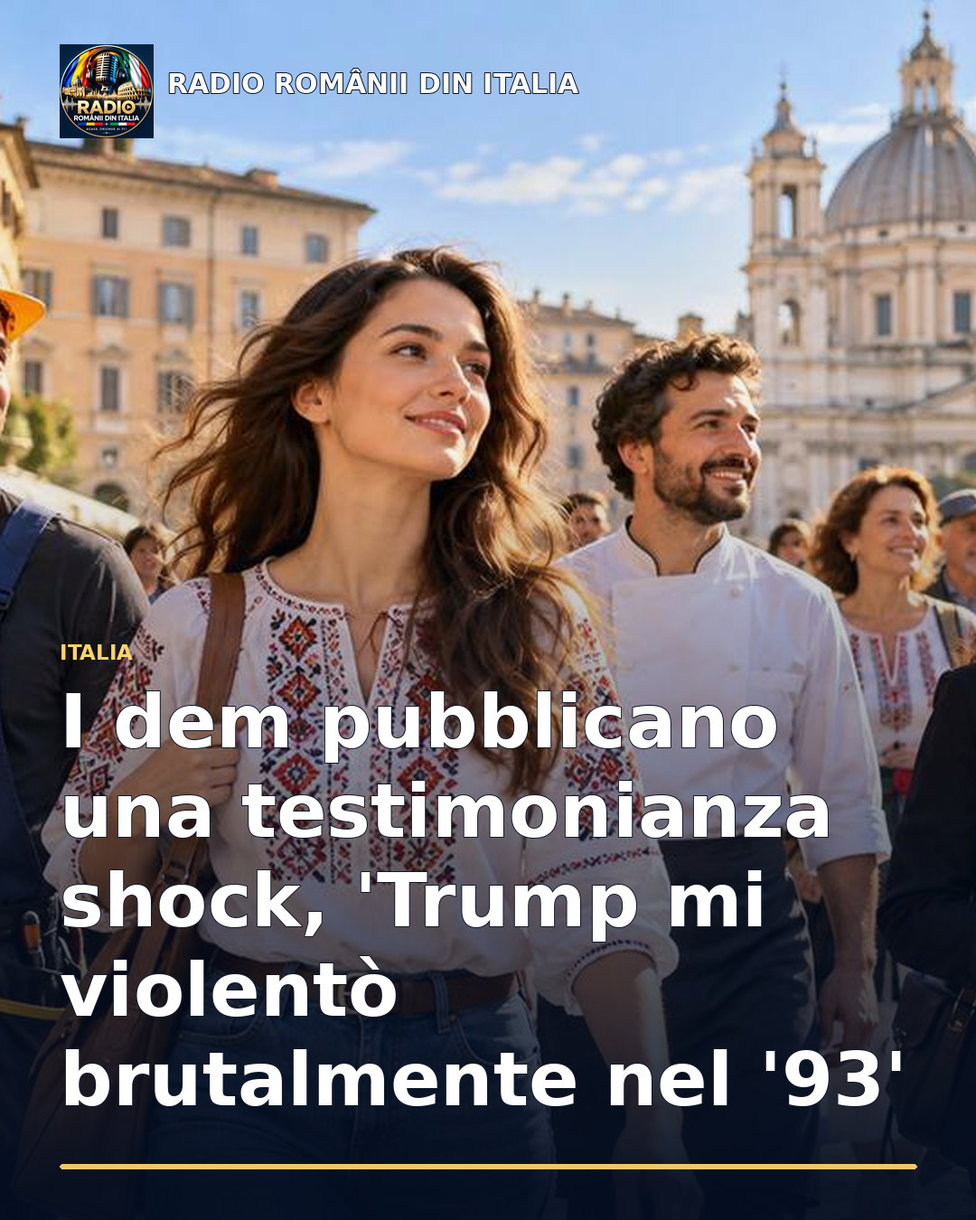
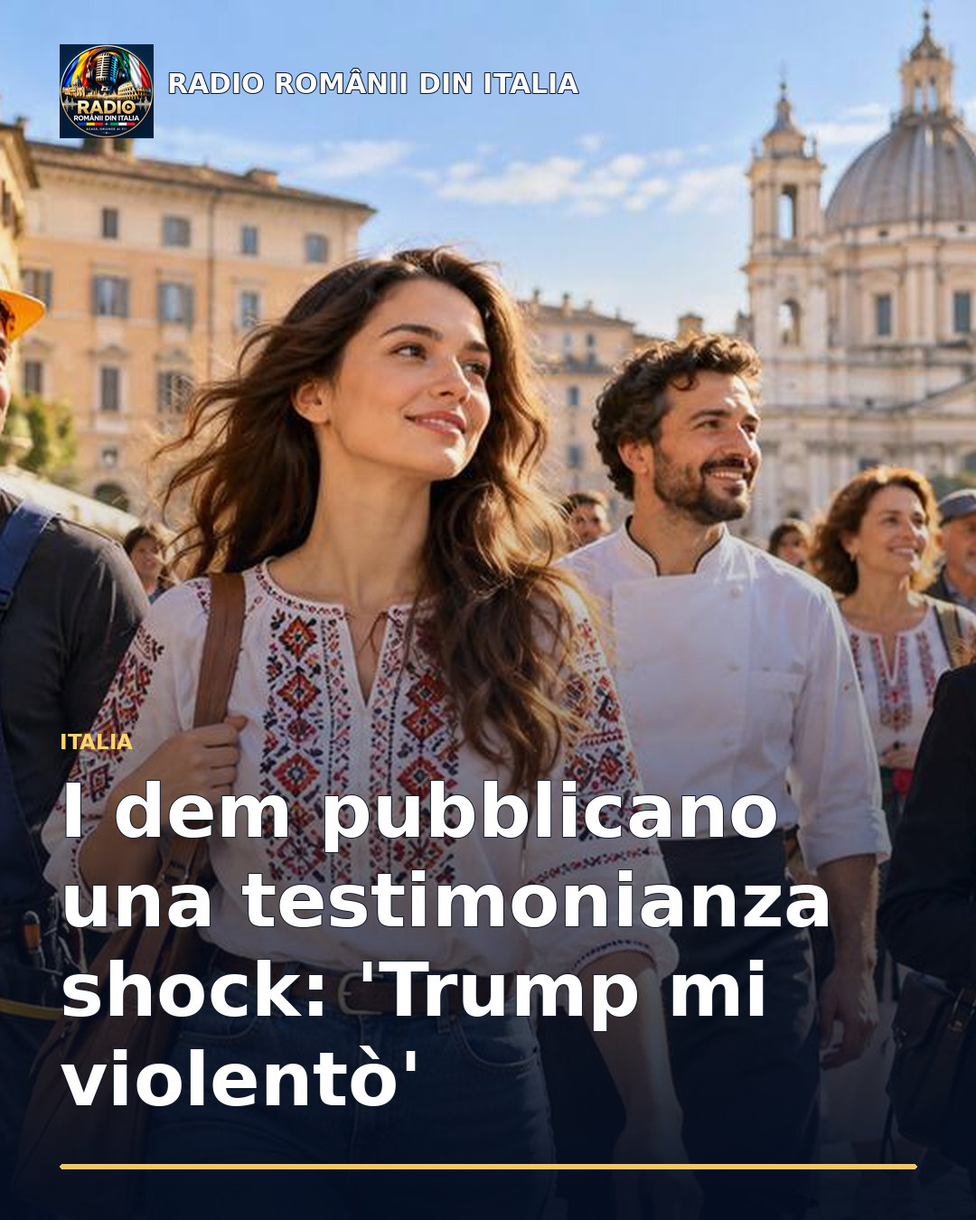
Aggiorna anteprime social RDI

Changed region(s): [[0.0611, 0.5289, 0.9167, 0.9333]]

diff --git a/articole/7bf0a75f-social.html b/articole/7bf0a75f-social.html
@@ -1,1 +1,1 @@
-<!doctype html><html lang="ro"><head><meta charset="utf-8"><meta name="viewport" content="width=device-width,initial-scale=1"><title>I dem pubblicano una testimonianza shock, &#x27;Trump mi violentò brutalmente nel &#x27;93&#x27; | RDI</title><meta name="description" content="In una camera del Plaza Hotel di Atlantic City dopo aver passato tempo con Epstein"><link rel="canonical" href="https://radioromanii.duckdns.org/articole/7bf0a75f-social.html"><meta property="og:type" content="article"><meta property="og:site_name" content="RDI - Radio Romanii din Italia"><meta property="og:title" content="I dem pubblicano una testimonianza shock, &#x27;Trump mi violentò brutalmente nel &#x27;93&#x27;"><meta property="og:description" content="In una camera del Plaza Hotel di Atlantic City dopo aver passato tempo con Epstein"><meta property="og:url" content="https://radioromanii.duckdns.org/articole/7bf0a75f-social.html"><meta property="og:image" content="https://radioromanii.duckdns.org/share-images/7bf0a75f-social.jpg?v=d81c2bfaf54a"><meta property="og:image:width" content="1200"><meta property="og:image:height" content="630"><meta name="twitter:card" content="summary_large_image"><meta name="twitter:title" content="I dem pubblicano una testimonianza shock, &#x27;Trump mi violentò brutalmente nel &#x27;93&#x27;"><meta name="twitter:description" content="In una camera del Plaza Hotel di Atlantic City dopo aver passato tempo con Epstein"><meta name="twitter:image" content="https://radioromanii.duckdns.org/share-images/7bf0a75f-social.jpg?v=d81c2bfaf54a"><style>body{font:18px system-ui;background:#101827;color:white;max-width:760px;margin:35px auto;padding:15px}img{width:100%;border-radius:16px}a{color:#f2c66c}</style></head><body><img src="https://radioromanii.duckdns.org/share-images/7bf0a75f-social.jpg?v=d81c2bfaf54a" alt="RDI"><h1>I dem pubblicano una testimonianza shock, &#x27;Trump mi violentò brutalmente nel &#x27;93&#x27;</h1><section id="article-summary"><p>In una camera del Plaza Hotel di Atlantic City dopo aver passato tempo con Epstein</p></section><p><a href="https://radioromanii.duckdns.org/?articolo=7bf0a75f">Leggi su RDI / Citește pe RDI →</a></p></body></html>
+<!doctype html><html lang="ro"><head><meta charset="utf-8"><meta name="viewport" content="width=device-width,initial-scale=1"><title>I dem pubblicano una testimonianza shock: &#x27;Trump mi violentò&#x27; | RDI</title><meta name="description" content="L&#x27;accusa di Beatrice Keul una nuova tegola sul tycoon, dopo Bolsonaro trema anche per Bibi"><link rel="canonical" href="https://radioromanii.duckdns.org/articole/7bf0a75f-social.html"><meta property="og:type" content="article"><meta property="og:site_name" content="RDI - Radio Romanii din Italia"><meta property="og:title" content="I dem pubblicano una testimonianza shock: &#x27;Trump mi violentò&#x27;"><meta property="og:description" content="L&#x27;accusa di Beatrice Keul una nuova tegola sul tycoon, dopo Bolsonaro trema anche per Bibi"><meta property="og:url" content="https://radioromanii.duckdns.org/articole/7bf0a75f-social.html"><meta property="og:image" content="https://radioromanii.duckdns.org/share-images/7bf0a75f-social.jpg?v=2dba4b8a94f5"><meta property="og:image:width" content="1200"><meta property="og:image:height" content="630"><meta name="twitter:card" content="summary_large_image"><meta name="twitter:title" content="I dem pubblicano una testimonianza shock: &#x27;Trump mi violentò&#x27;"><meta name="twitter:description" content="L&#x27;accusa di Beatrice Keul una nuova tegola sul tycoon, dopo Bolsonaro trema anche per Bibi"><meta name="twitter:image" content="https://radioromanii.duckdns.org/share-images/7bf0a75f-social.jpg?v=2dba4b8a94f5"><style>body{font:18px system-ui;background:#101827;color:white;max-width:760px;margin:35px auto;padding:15px}img{width:100%;border-radius:16px}a{color:#f2c66c}</style></head><body><img src="https://radioromanii.duckdns.org/share-images/7bf0a75f-social.jpg?v=2dba4b8a94f5" alt="RDI"><h1>I dem pubblicano una testimonianza shock: &#x27;Trump mi violentò&#x27;</h1><section id="article-summary"><p>L&#x27;accusa di Beatrice Keul una nuova tegola sul tycoon, dopo Bolsonaro trema anche per Bibi</p></section><p><a href="https://radioromanii.duckdns.org/?articolo=7bf0a75f">Leggi su RDI / Citește pe RDI →</a></p></body></html>

diff --git a/articole/7bf0a75f.html b/articole/7bf0a75f.html
@@ -1,1 +1,1 @@
-<!doctype html><html lang="ro"><head><meta charset="utf-8"><meta name="viewport" content="width=device-width,initial-scale=1"><title>I dem pubblicano una testimonianza shock, &#x27;Trump mi violentò brutalmente nel &#x27;93&#x27; | RDI</title><meta name="description" content="In una camera del Plaza Hotel di Atlantic City dopo aver passato tempo con Epstein"><link rel="canonical" href="https://radioromanii.duckdns.org/articole/7bf0a75f-social.html"><meta property="og:type" content="article"><meta property="og:site_name" content="RDI - Radio Romanii din Italia"><meta property="og:title" content="I dem pubblicano una testimonianza shock, &#x27;Trump mi violentò brutalmente nel &#x27;93&#x27;"><meta property="og:description" content="In una camera del Plaza Hotel di Atlantic City dopo aver passato tempo con Epstein"><meta property="og:url" content="https://radioromanii.duckdns.org/articole/7bf0a75f-social.html"><meta property="og:image" content="https://radioromanii.duckdns.org/share-images/7bf0a75f-social.jpg?v=d81c2bfaf54a"><meta property="og:image:width" content="1200"><meta property="og:image:height" content="630"><meta name="twitter:card" content="summary_large_image"><meta name="twitter:title" content="I dem pubblicano una testimonianza shock, &#x27;Trump mi violentò brutalmente nel &#x27;93&#x27;"><meta name="twitter:description" content="In una camera del Plaza Hotel di Atlantic City dopo aver passato tempo con Epstein"><meta name="twitter:image" content="https://radioromanii.duckdns.org/share-images/7bf0a75f-social.jpg?v=d81c2bfaf54a"><style>body{font:18px system-ui;background:#101827;color:white;max-width:760px;margin:35px auto;padding:15px}img{width:100%;border-radius:16px}a{color:#f2c66c}</style></head><body><img src="https://radioromanii.duckdns.org/share-images/7bf0a75f-social.jpg?v=d81c2bfaf54a" alt="RDI"><h1>I dem pubblicano una testimonianza shock, &#x27;Trump mi violentò brutalmente nel &#x27;93&#x27;</h1><section id="article-summary"><p>In una camera del Plaza Hotel di Atlantic City dopo aver passato tempo con Epstein</p></section><p><a href="https://radioromanii.duckdns.org/?articolo=7bf0a75f">Leggi su RDI / Citește pe RDI →</a></p></body></html>
+<!doctype html><html lang="ro"><head><meta charset="utf-8"><meta name="viewport" content="width=device-width,initial-scale=1"><title>I dem pubblicano una testimonianza shock: &#x27;Trump mi violentò&#x27; | RDI</title><meta name="description" content="L&#x27;accusa di Beatrice Keul una nuova tegola sul tycoon, dopo Bolsonaro trema anche per Bibi"><link rel="canonical" href="https://radioromanii.duckdns.org/articole/7bf0a75f-social.html"><meta property="og:type" content="article"><meta property="og:site_name" content="RDI - Radio Romanii din Italia"><meta property="og:title" content="I dem pubblicano una testimonianza shock: &#x27;Trump mi violentò&#x27;"><meta property="og:description" content="L&#x27;accusa di Beatrice Keul una nuova tegola sul tycoon, dopo Bolsonaro trema anche per Bibi"><meta property="og:url" content="https://radioromanii.duckdns.org/articole/7bf0a75f-social.html"><meta property="og:image" content="https://radioromanii.duckdns.org/share-images/7bf0a75f-social.jpg?v=2dba4b8a94f5"><meta property="og:image:width" content="1200"><meta property="og:image:height" content="630"><meta name="twitter:card" content="summary_large_image"><meta name="twitter:title" content="I dem pubblicano una testimonianza shock: &#x27;Trump mi violentò&#x27;"><meta name="twitter:description" content="L&#x27;accusa di Beatrice Keul una nuova tegola sul tycoon, dopo Bolsonaro trema anche per Bibi"><meta name="twitter:image" content="https://radioromanii.duckdns.org/share-images/7bf0a75f-social.jpg?v=2dba4b8a94f5"><style>body{font:18px system-ui;background:#101827;color:white;max-width:760px;margin:35px auto;padding:15px}img{width:100%;border-radius:16px}a{color:#f2c66c}</style></head><body><img src="https://radioromanii.duckdns.org/share-images/7bf0a75f-social.jpg?v=2dba4b8a94f5" alt="RDI"><h1>I dem pubblicano una testimonianza shock: &#x27;Trump mi violentò&#x27;</h1><section id="article-summary"><p>L&#x27;accusa di Beatrice Keul una nuova tegola sul tycoon, dopo Bolsonaro trema anche per Bibi</p></section><p><a href="https://radioromanii.duckdns.org/?articolo=7bf0a75f">Leggi su RDI / Citește pe RDI →</a></p></body></html>

diff --git a/articole/d0a415d0-social.html b/articole/d0a415d0-social.html
@@ -1,0 +1,1 @@
+<!doctype html><html lang="ro"><head><meta charset="utf-8"><meta name="viewport" content="width=device-width,initial-scale=1"><title>La noapte începe evacuarea orașului Oleșkî. Pe cei care aleg să rămână îi așteaptă iadul. „Ar putea fi șters de pe fața pământului” | RDI</title><meta name="description" content="Orașul Oleșkî, ocupat de ruși, ar putea suferi distrugeri și mai mari după plecarea civililor, în cadrul unui recent acord de încetare a focului negociat de SUA, a declarat voluntara de evac"><link rel="canonical" href="https://radioromanii.duckdns.org/articole/d0a415d0-social.html"><meta property="og:type" content="article"><meta property="og:site_name" content="RDI - Radio Romanii din Italia"><meta property="og:title" content="La noapte începe evacuarea orașului Oleșkî. Pe cei care aleg să rămână îi așteaptă iadul. „Ar putea fi șters de pe fața pământului”"><meta property="og:description" content="Orașul Oleșkî, ocupat de ruși, ar putea suferi distrugeri și mai mari după plecarea civililor, în cadrul unui recent acord de încetare a focului negociat de SUA, a declarat voluntara de evac"><meta property="og:url" content="https://radioromanii.duckdns.org/articole/d0a415d0-social.html"><meta property="og:image" content="https://radioromanii.duckdns.org/share-images/d0a415d0-social.jpg?v=7cc2ce25390e"><meta property="og:image:width" content="1200"><meta property="og:image:height" content="630"><meta name="twitter:card" content="summary_large_image"><meta name="twitter:title" content="La noapte începe evacuarea orașului Oleșkî. Pe cei care aleg să rămână îi așteaptă iadul. „Ar putea fi șters de pe fața pământului”"><meta name="twitter:description" content="Orașul Oleșkî, ocupat de ruși, ar putea suferi distrugeri și mai mari după plecarea civililor, în cadrul unui recent acord de încetare a focului negociat de SUA, a declarat voluntara de evac"><meta name="twitter:image" content="https://radioromanii.duckdns.org/share-images/d0a415d0-social.jpg?v=7cc2ce25390e"><style>body{font:18px system-ui;background:#101827;color:white;max-width:760px;margin:35px auto;padding:15px}img{width:100%;border-radius:16px}a{color:#f2c66c}</style></head><body><img src="https://radioromanii.duckdns.org/share-images/d0a415d0-social.jpg?v=7cc2ce25390e" alt="RDI"><h1>La noapte începe evacuarea orașului Oleșkî. Pe cei care aleg să rămână îi așteaptă iadul. „Ar putea fi șters de pe fața pământului”</h1><section id="article-summary"><p>Orașul Oleșkî, ocupat de ruși, ar putea suferi distrugeri și mai mari după plecarea civililor, în cadrul unui recent acord de încetare a focului negociat de SUA, a declarat voluntara de evacuare Kseniia Arkhipova pentru Kyiv Independent.</p></section><p><a href="https://radioromanii.duckdns.org/?articolo=d0a415d0">Leggi su RDI / Citește pe RDI →</a></p></body></html>

diff --git a/articole/d0a415d0.html b/articole/d0a415d0.html
@@ -1,0 +1,1 @@
+<!doctype html><html lang="ro"><head><meta charset="utf-8"><meta name="viewport" content="width=device-width,initial-scale=1"><title>La noapte începe evacuarea orașului Oleșkî. Pe cei care aleg să rămână îi așteaptă iadul. „Ar putea fi șters de pe fața pământului” | RDI</title><meta name="description" content="Orașul Oleșkî, ocupat de ruși, ar putea suferi distrugeri și mai mari după plecarea civililor, în cadrul unui recent acord de încetare a focului negociat de SUA, a declarat voluntara de evac"><link rel="canonical" href="https://radioromanii.duckdns.org/articole/d0a415d0-social.html"><meta property="og:type" content="article"><meta property="og:site_name" content="RDI - Radio Romanii din Italia"><meta property="og:title" content="La noapte începe evacuarea orașului Oleșkî. Pe cei care aleg să rămână îi așteaptă iadul. „Ar putea fi șters de pe fața pământului”"><meta property="og:description" content="Orașul Oleșkî, ocupat de ruși, ar putea suferi distrugeri și mai mari după plecarea civililor, în cadrul unui recent acord de încetare a focului negociat de SUA, a declarat voluntara de evac"><meta property="og:url" content="https://radioromanii.duckdns.org/articole/d0a415d0-social.html"><meta property="og:image" content="https://radioromanii.duckdns.org/share-images/d0a415d0-social.jpg?v=7cc2ce25390e"><meta property="og:image:width" content="1200"><meta property="og:image:height" content="630"><meta name="twitter:card" content="summary_large_image"><meta name="twitter:title" content="La noapte începe evacuarea orașului Oleșkî. Pe cei care aleg să rămână îi așteaptă iadul. „Ar putea fi șters de pe fața pământului”"><meta name="twitter:description" content="Orașul Oleșkî, ocupat de ruși, ar putea suferi distrugeri și mai mari după plecarea civililor, în cadrul unui recent acord de încetare a focului negociat de SUA, a declarat voluntara de evac"><meta name="twitter:image" content="https://radioromanii.duckdns.org/share-images/d0a415d0-social.jpg?v=7cc2ce25390e"><style>body{font:18px system-ui;background:#101827;color:white;max-width:760px;margin:35px auto;padding:15px}img{width:100%;border-radius:16px}a{color:#f2c66c}</style></head><body><img src="https://radioromanii.duckdns.org/share-images/d0a415d0-social.jpg?v=7cc2ce25390e" alt="RDI"><h1>La noapte începe evacuarea orașului Oleșkî. Pe cei care aleg să rămână îi așteaptă iadul. „Ar putea fi șters de pe fața pământului”</h1><section id="article-summary"><p>Orașul Oleșkî, ocupat de ruși, ar putea suferi distrugeri și mai mari după plecarea civililor, în cadrul unui recent acord de încetare a focului negociat de SUA, a declarat voluntara de evacuare Kseniia Arkhipova pentru Kyiv Independent.</p></section><p><a href="https://radioromanii.duckdns.org/?articolo=d0a415d0">Leggi su RDI / Citește pe RDI →</a></p></body></html>

diff --git a/articole/ca4705-social.html b/articole/ca4705-social.html
@@ -1,0 +1,1 @@
+<!doctype html><html lang="ro"><head><meta charset="utf-8"><meta name="viewport" content="width=device-width,initial-scale=1"><title>Nicușor Dan felicită Lista Studenților pentru victoria din Serbia: „România este pregătită să colaboreze cu noul guvern” - Realitatea.NET | RDI</title><meta name="description" content="Nicușor Dan felicită Lista Studenților pentru victoria din Serbia: „România este pregătită să colaboreze cu noul guvern” - Realitatea.NET"><link rel="canonical" href="https://radioromanii.duckdns.org/articole/ca4705-social.html"><meta property="og:type" content="article"><meta property="og:site_name" content="RDI - Radio Romanii din Italia"><meta property="og:title" content="Nicușor Dan felicită Lista Studenților pentru victoria din Serbia: „România este pregătită să colaboreze cu noul guvern” - Realitatea.NET"><meta property="og:description" content="Nicușor Dan felicită Lista Studenților pentru victoria din Serbia: „România este pregătită să colaboreze cu noul guvern” - Realitatea.NET"><meta property="og:url" content="https://radioromanii.duckdns.org/articole/ca4705-social.html"><meta property="og:image" content="https://radioromanii.duckdns.org/share-images/ca4705-social.jpg?v=7273ff17fc1a"><meta property="og:image:width" content="1200"><meta property="og:image:height" content="630"><meta name="twitter:card" content="summary_large_image"><meta name="twitter:title" content="Nicușor Dan felicită Lista Studenților pentru victoria din Serbia: „România este pregătită să colaboreze cu noul guvern” - Realitatea.NET"><meta name="twitter:description" content="Nicușor Dan felicită Lista Studenților pentru victoria din Serbia: „România este pregătită să colaboreze cu noul guvern” - Realitatea.NET"><meta name="twitter:image" content="https://radioromanii.duckdns.org/share-images/ca4705-social.jpg?v=7273ff17fc1a"><style>body{font:18px system-ui;background:#101827;color:white;max-width:760px;margin:35px auto;padding:15px}img{width:100%;border-radius:16px}a{color:#f2c66c}</style></head><body><img src="https://radioromanii.duckdns.org/share-images/ca4705-social.jpg?v=7273ff17fc1a" alt="RDI"><h1>Nicușor Dan felicită Lista Studenților pentru victoria din Serbia: „România este pregătită să colaboreze cu noul guvern” - Realitatea.NET</h1><section id="article-summary"><p>Nicușor Dan felicită Lista Studenților pentru victoria din Serbia: „România este pregătită să colaboreze cu noul guvern” - Realitatea.NET</p></section><p><a href="https://radioromanii.duckdns.org/?articolo=ca4705">Leggi su RDI / Citește pe RDI →</a></p></body></html>

diff --git a/articole/ca4705.html b/articole/ca4705.html
@@ -1,0 +1,1 @@
+<!doctype html><html lang="ro"><head><meta charset="utf-8"><meta name="viewport" content="width=device-width,initial-scale=1"><title>Nicușor Dan felicită Lista Studenților pentru victoria din Serbia: „România este pregătită să colaboreze cu noul guvern” - Realitatea.NET | RDI</title><meta name="description" content="Nicușor Dan felicită Lista Studenților pentru victoria din Serbia: „România este pregătită să colaboreze cu noul guvern” - Realitatea.NET"><link rel="canonical" href="https://radioromanii.duckdns.org/articole/ca4705-social.html"><meta property="og:type" content="article"><meta property="og:site_name" content="RDI - Radio Romanii din Italia"><meta property="og:title" content="Nicușor Dan felicită Lista Studenților pentru victoria din Serbia: „România este pregătită să colaboreze cu noul guvern” - Realitatea.NET"><meta property="og:description" content="Nicușor Dan felicită Lista Studenților pentru victoria din Serbia: „România este pregătită să colaboreze cu noul guvern” - Realitatea.NET"><meta property="og:url" content="https://radioromanii.duckdns.org/articole/ca4705-social.html"><meta property="og:image" content="https://radioromanii.duckdns.org/share-images/ca4705-social.jpg?v=7273ff17fc1a"><meta property="og:image:width" content="1200"><meta property="og:image:height" content="630"><meta name="twitter:card" content="summary_large_image"><meta name="twitter:title" content="Nicușor Dan felicită Lista Studenților pentru victoria din Serbia: „România este pregătită să colaboreze cu noul guvern” - Realitatea.NET"><meta name="twitter:description" content="Nicușor Dan felicită Lista Studenților pentru victoria din Serbia: „România este pregătită să colaboreze cu noul guvern” - Realitatea.NET"><meta name="twitter:image" content="https://radioromanii.duckdns.org/share-images/ca4705-social.jpg?v=7273ff17fc1a"><style>body{font:18px system-ui;background:#101827;color:white;max-width:760px;margin:35px auto;padding:15px}img{width:100%;border-radius:16px}a{color:#f2c66c}</style></head><body><img src="https://radioromanii.duckdns.org/share-images/ca4705-social.jpg?v=7273ff17fc1a" alt="RDI"><h1>Nicușor Dan felicită Lista Studenților pentru victoria din Serbia: „România este pregătită să colaboreze cu noul guvern” - Realitatea.NET</h1><section id="article-summary"><p>Nicușor Dan felicită Lista Studenților pentru victoria din Serbia: „România este pregătită să colaboreze cu noul guvern” - Realitatea.NET</p></section><p><a href="https://radioromanii.duckdns.org/?articolo=ca4705">Leggi su RDI / Citește pe RDI →</a></p></body></html>

diff --git a/articole/324518a2-social.html b/articole/324518a2-social.html
@@ -1,0 +1,1 @@
+<!doctype html><html lang="ro"><head><meta charset="utf-8"><meta name="viewport" content="width=device-width,initial-scale=1"><title>Actorul american Walter Koenig, cunoscut din seria iniţială „Star Trek”, a murit la 90 de ani | RDI</title><meta name="description" content="Actorul american Walter Koenig, cunoscut din seria iniţială &quot;Star Trek&quot;, a murit la 90 de ani"><link rel="canonical" href="https://radioromanii.duckdns.org/articole/324518a2-social.html"><meta property="og:type" content="article"><meta property="og:site_name" content="RDI - Radio Romanii din Italia"><meta property="og:title" content="Actorul american Walter Koenig, cunoscut din seria iniţială „Star Trek”, a murit la 90 de ani"><meta property="og:description" content="Actorul american Walter Koenig, cunoscut din seria iniţială &quot;Star Trek&quot;, a murit la 90 de ani"><meta property="og:url" content="https://radioromanii.duckdns.org/articole/324518a2-social.html"><meta property="og:image" content="https://radioromanii.duckdns.org/share-images/324518a2-social.jpg?v=6b18a74af030"><meta property="og:image:width" content="1200"><meta property="og:image:height" content="630"><meta name="twitter:card" content="summary_large_image"><meta name="twitter:title" content="Actorul american Walter Koenig, cunoscut din seria iniţială „Star Trek”, a murit la 90 de ani"><meta name="twitter:description" content="Actorul american Walter Koenig, cunoscut din seria iniţială &quot;Star Trek&quot;, a murit la 90 de ani"><meta name="twitter:image" content="https://radioromanii.duckdns.org/share-images/324518a2-social.jpg?v=6b18a74af030"><style>body{font:18px system-ui;background:#101827;color:white;max-width:760px;margin:35px auto;padding:15px}img{width:100%;border-radius:16px}a{color:#f2c66c}</style></head><body><img src="https://radioromanii.duckdns.org/share-images/324518a2-social.jpg?v=6b18a74af030" alt="RDI"><h1>Actorul american Walter Koenig, cunoscut din seria iniţială „Star Trek”, a murit la 90 de ani</h1><section id="article-summary"><p>Actorul american Walter Koenig, cunoscut din seria iniţială &quot;Star Trek&quot;, a murit la 90 de ani</p></section><p><a href="https://radioromanii.duckdns.org/?articolo=324518a2">Leggi su RDI / Citește pe RDI →</a></p></body></html>

diff --git a/articole/324518a2.html b/articole/324518a2.html
@@ -1,0 +1,1 @@
+<!doctype html><html lang="ro"><head><meta charset="utf-8"><meta name="viewport" content="width=device-width,initial-scale=1"><title>Actorul american Walter Koenig, cunoscut din seria iniţială „Star Trek”, a murit la 90 de ani | RDI</title><meta name="description" content="Actorul american Walter Koenig, cunoscut din seria iniţială &quot;Star Trek&quot;, a murit la 90 de ani"><link rel="canonical" href="https://radioromanii.duckdns.org/articole/324518a2-social.html"><meta property="og:type" content="article"><meta property="og:site_name" content="RDI - Radio Romanii din Italia"><meta property="og:title" content="Actorul american Walter Koenig, cunoscut din seria iniţială „Star Trek”, a murit la 90 de ani"><meta property="og:description" content="Actorul american Walter Koenig, cunoscut din seria iniţială &quot;Star Trek&quot;, a murit la 90 de ani"><meta property="og:url" content="https://radioromanii.duckdns.org/articole/324518a2-social.html"><meta property="og:image" content="https://radioromanii.duckdns.org/share-images/324518a2-social.jpg?v=6b18a74af030"><meta property="og:image:width" content="1200"><meta property="og:image:height" content="630"><meta name="twitter:card" content="summary_large_image"><meta name="twitter:title" content="Actorul american Walter Koenig, cunoscut din seria iniţială „Star Trek”, a murit la 90 de ani"><meta name="twitter:description" content="Actorul american Walter Koenig, cunoscut din seria iniţială &quot;Star Trek&quot;, a murit la 90 de ani"><meta name="twitter:image" content="https://radioromanii.duckdns.org/share-images/324518a2-social.jpg?v=6b18a74af030"><style>body{font:18px system-ui;background:#101827;color:white;max-width:760px;margin:35px auto;padding:15px}img{width:100%;border-radius:16px}a{color:#f2c66c}</style></head><body><img src="https://radioromanii.duckdns.org/share-images/324518a2-social.jpg?v=6b18a74af030" alt="RDI"><h1>Actorul american Walter Koenig, cunoscut din seria iniţială „Star Trek”, a murit la 90 de ani</h1><section id="article-summary"><p>Actorul american Walter Koenig, cunoscut din seria iniţială &quot;Star Trek&quot;, a murit la 90 de ani</p></section><p><a href="https://radioromanii.duckdns.org/?articolo=324518a2">Leggi su RDI / Citește pe RDI →</a></p></body></html>

diff --git a/articole/563bdfd7-social.html b/articole/563bdfd7-social.html
@@ -1,0 +1,1 @@
+<!doctype html><html lang="ro"><head><meta charset="utf-8"><meta name="viewport" content="width=device-width,initial-scale=1"><title>La nuova era Mediobanca. Lovaglio spinge la fusione - la Repubblica | RDI</title><meta name="description" content="La nuova era Mediobanca. Lovaglio spinge la fusione - la Repubblica"><link rel="canonical" href="https://radioromanii.duckdns.org/articole/563bdfd7-social.html"><meta property="og:type" content="article"><meta property="og:site_name" content="RDI - Radio Romanii din Italia"><meta property="og:title" content="La nuova era Mediobanca. Lovaglio spinge la fusione - la Repubblica"><meta property="og:description" content="La nuova era Mediobanca. Lovaglio spinge la fusione - la Repubblica"><meta property="og:url" content="https://radioromanii.duckdns.org/articole/563bdfd7-social.html"><meta property="og:image" content="https://radioromanii.duckdns.org/share-images/563bdfd7-social.jpg?v=9e6103a1dce8"><meta property="og:image:width" content="1200"><meta property="og:image:height" content="630"><meta name="twitter:card" content="summary_large_image"><meta name="twitter:title" content="La nuova era Mediobanca. Lovaglio spinge la fusione - la Repubblica"><meta name="twitter:description" content="La nuova era Mediobanca. Lovaglio spinge la fusione - la Repubblica"><meta name="twitter:image" content="https://radioromanii.duckdns.org/share-images/563bdfd7-social.jpg?v=9e6103a1dce8"><style>body{font:18px system-ui;background:#101827;color:white;max-width:760px;margin:35px auto;padding:15px}img{width:100%;border-radius:16px}a{color:#f2c66c}</style></head><body><img src="https://radioromanii.duckdns.org/share-images/563bdfd7-social.jpg?v=9e6103a1dce8" alt="RDI"><h1>La nuova era Mediobanca. Lovaglio spinge la fusione - la Repubblica</h1><section id="article-summary"><p>La nuova era Mediobanca. Lovaglio spinge la fusione - la Repubblica</p></section><p><a href="https://radioromanii.duckdns.org/?articolo=563bdfd7">Leggi su RDI / Citește pe RDI →</a></p></body></html>

diff --git a/articole/563bdfd7.html b/articole/563bdfd7.html
@@ -1,0 +1,1 @@
+<!doctype html><html lang="ro"><head><meta charset="utf-8"><meta name="viewport" content="width=device-width,initial-scale=1"><title>La nuova era Mediobanca. Lovaglio spinge la fusione - la Repubblica | RDI</title><meta name="description" content="La nuova era Mediobanca. Lovaglio spinge la fusione - la Repubblica"><link rel="canonical" href="https://radioromanii.duckdns.org/articole/563bdfd7-social.html"><meta property="og:type" content="article"><meta property="og:site_name" content="RDI - Radio Romanii din Italia"><meta property="og:title" content="La nuova era Mediobanca. Lovaglio spinge la fusione - la Repubblica"><meta property="og:description" content="La nuova era Mediobanca. Lovaglio spinge la fusione - la Repubblica"><meta property="og:url" content="https://radioromanii.duckdns.org/articole/563bdfd7-social.html"><meta property="og:image" content="https://radioromanii.duckdns.org/share-images/563bdfd7-social.jpg?v=9e6103a1dce8"><meta property="og:image:width" content="1200"><meta property="og:image:height" content="630"><meta name="twitter:card" content="summary_large_image"><meta name="twitter:title" content="La nuova era Mediobanca. Lovaglio spinge la fusione - la Repubblica"><meta name="twitter:description" content="La nuova era Mediobanca. Lovaglio spinge la fusione - la Repubblica"><meta name="twitter:image" content="https://radioromanii.duckdns.org/share-images/563bdfd7-social.jpg?v=9e6103a1dce8"><style>body{font:18px system-ui;background:#101827;color:white;max-width:760px;margin:35px auto;padding:15px}img{width:100%;border-radius:16px}a{color:#f2c66c}</style></head><body><img src="https://radioromanii.duckdns.org/share-images/563bdfd7-social.jpg?v=9e6103a1dce8" alt="RDI"><h1>La nuova era Mediobanca. Lovaglio spinge la fusione - la Repubblica</h1><section id="article-summary"><p>La nuova era Mediobanca. Lovaglio spinge la fusione - la Repubblica</p></section><p><a href="https://radioromanii.duckdns.org/?articolo=563bdfd7">Leggi su RDI / Citește pe RDI →</a></p></body></html>
